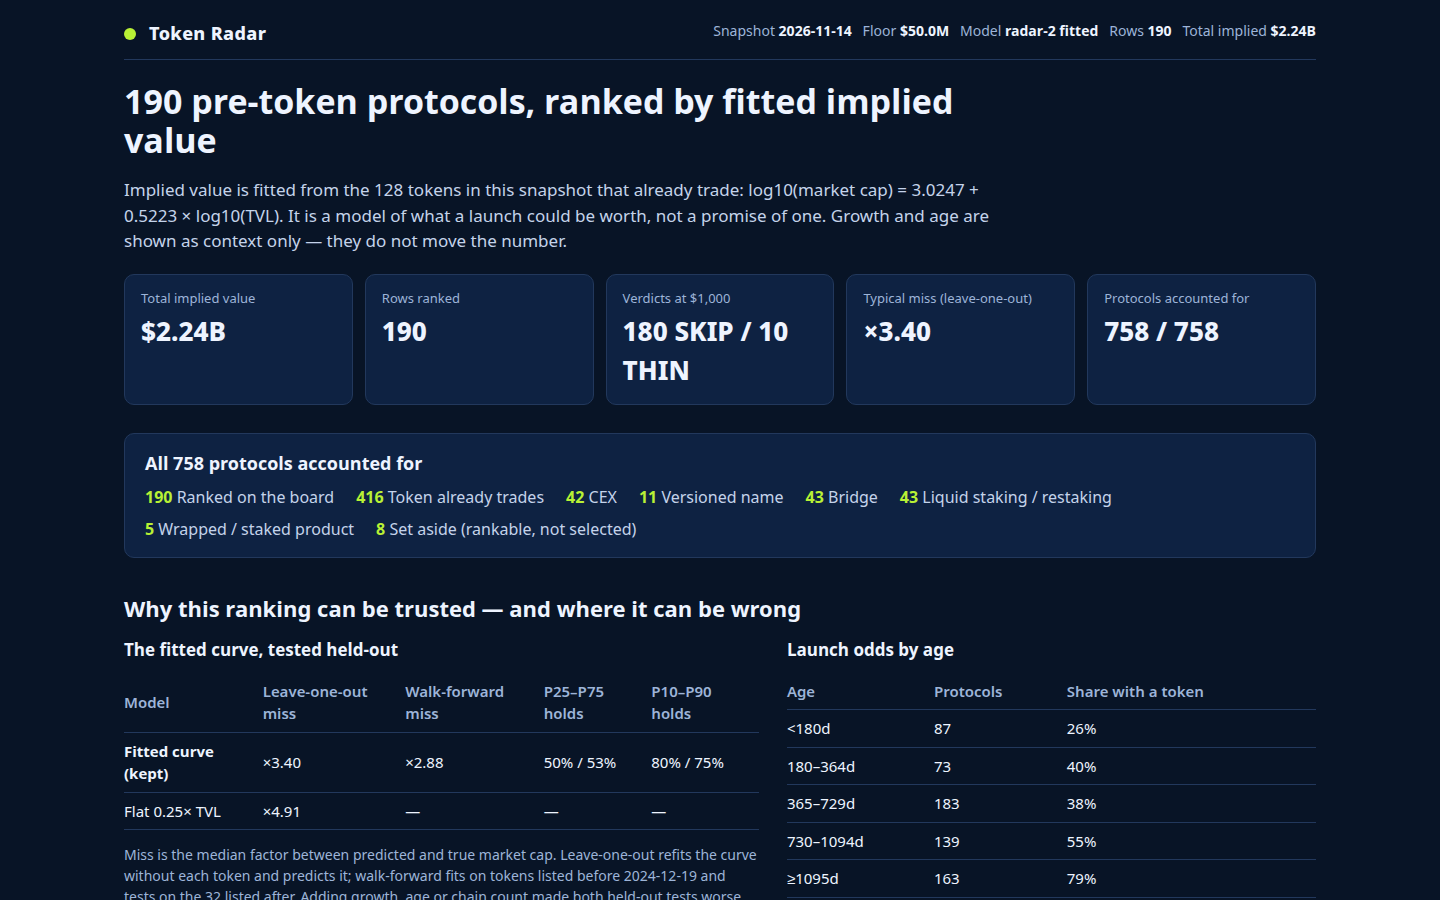
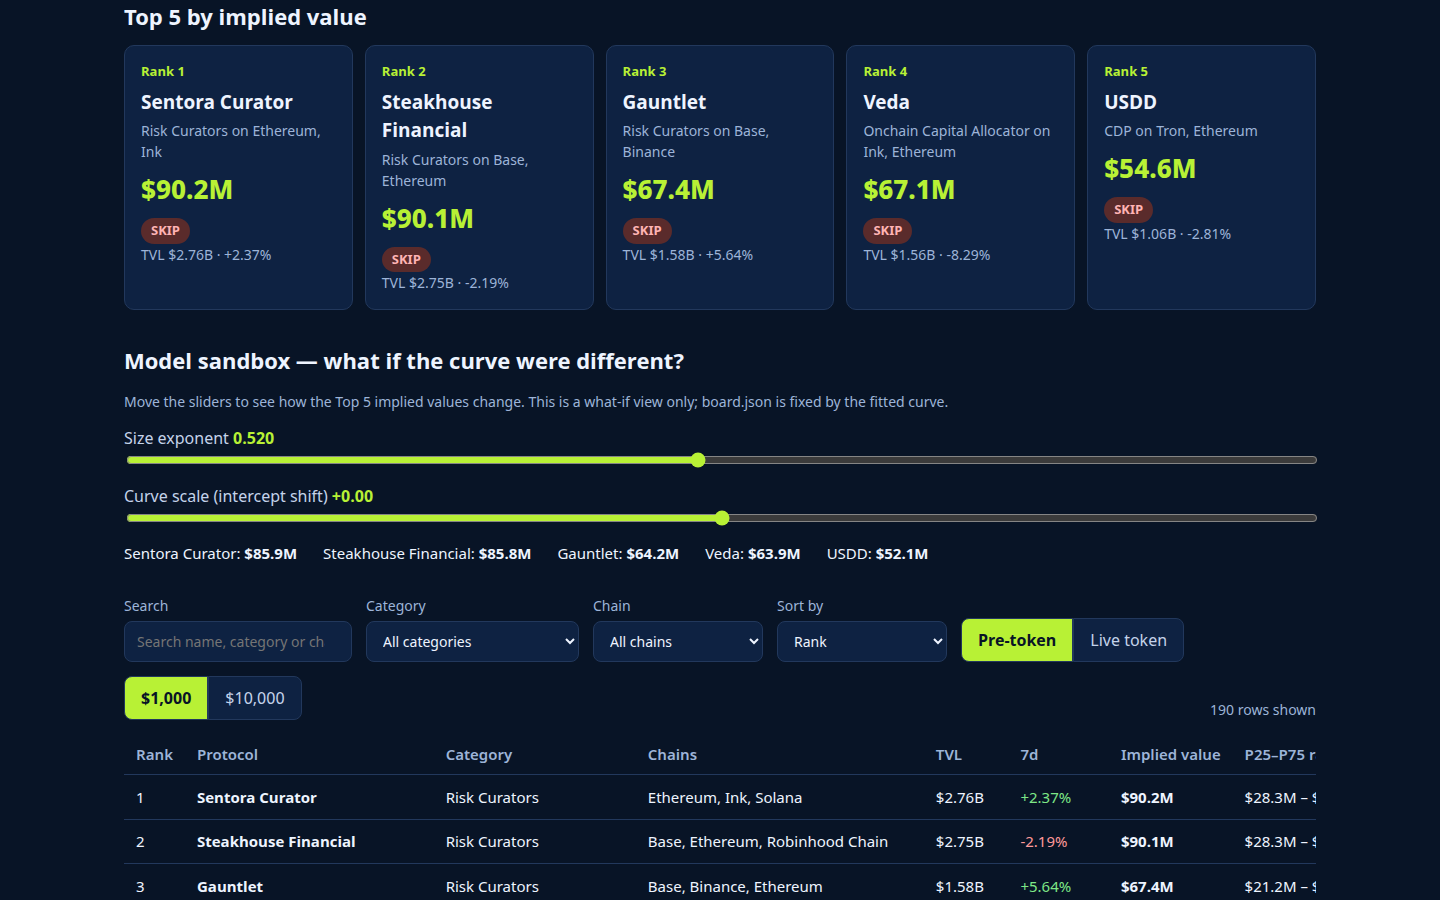
token-radar-01: maximize for top 5 - test model terms (none survive), add fit scatter and verdict toggle

diff --git a/dashboard/app.js b/dashboard/app.js
@@ -103,8 +103,10 @@
   document.getElementById('evidence-note').textContent =
     'Miss is the median factor between predicted and true market cap. Leave-one-out refits the curve ' +
     'without each token and predicts it; walk-forward fits on tokens listed before 2024-12-19 and tests ' +
-    'on the 32 listed after. Adding growth, age or chain count made both held-out tests worse, so the ' +
-    'curve is size alone.';
+    'on the 32 listed after. More terms were tried and none survived both tests: per-category intercepts ' +
+    '(Dexs, Lending) lowered walk-forward to ×2.75 but raised leave-one-out to ×3.68; a sibling indicator ' +
+    'lowered leave-one-out to ×3.30 but raised walk-forward to ×3.16; log age broke walk-forward outright ' +
+    '(×9.15) by extrapolating past its training range. So the curve stays size alone.';
   document.getElementById('odds-table').innerHTML =
     '<tr><th>Age</th><th>Protocols</th><th>Share with a token</th></tr>' +
     ev.odds.map(function (o) {
@@ -114,6 +116,60 @@
   document.getElementById('brier').textContent =
     ev.brier_odds.toFixed(2) + ' vs ' + ev.brier_overall.toFixed(2) + ' for the overall rate alone (' +
     Math.round(ev.overall_token_share * 100) + '% of protocols record a token)';
+
+  // Fit scatter: log10 TVL against log10 market cap for the traded tokens,
+  // with the fitted curve. Static SVG, no network, no library.
+  (function renderScatter() {
+    var pts = (R.fit_points || []).map(function (p) {
+      return { x: Math.log10(p.tvl_usd), y: Math.log10(p.mcap_usd), name: p.name, tvl: p.tvl_usd, mcap: p.mcap_usd };
+    });
+    if (pts.length === 0) return;
+    var W = 640, H = 400, L = 64, Rr = 16, T = 16, B = 52;
+    var xs = pts.map(function (p) { return p.x; });
+    var ys = pts.map(function (p) { return p.y; });
+    var x0 = Math.floor(Math.min.apply(null, xs) - 0.2);
+    var x1 = Math.ceil(Math.max.apply(null, xs) + 0.2);
+    var y0 = Math.floor(Math.min.apply(null, ys) - 0.2);
+    var y1 = Math.ceil(Math.max.apply(null, ys) + 0.2);
+    function X(v) { return L + ((v - x0) / (x1 - x0)) * (W - L - Rr); }
+    function Y(v) { return T + (1 - (v - y0) / (y1 - y0)) * (H - T - B); }
+    function tickLabel(v) {
+      var n = Math.pow(10, v);
+      if (n >= 1e9) return '$' + (n / 1e9) + 'B';
+      if (n >= 1e6) return '$' + (n / 1e6) + 'M';
+      return '$' + (n / 1e3) + 'K';
+    }
+    var s = '<svg viewBox="0 0 ' + W + ' ' + H + '" role="img" aria-label="Scatter of traded tokens: log TVL against log market cap, with the fitted curve">';
+    var t;
+    for (t = x0; t <= x1; t++) {
+      var anchor = t === x1 ? 'end' : (t === x0 ? 'start' : 'middle');
+      s += '<line x1="' + X(t) + '" y1="' + Y(y0) + '" x2="' + X(t) + '" y2="' + Y(y1) + '" class="grid"/>' +
+        '<text x="' + X(t) + '" y="' + (H - B + 20) + '" class="axis" text-anchor="' + anchor + '">' + tickLabel(t) + '</text>';
+    }
+    for (t = y0; t <= y1; t++) {
+      s += '<line x1="' + X(x0) + '" y1="' + Y(t) + '" x2="' + X(x1) + '" y2="' + Y(t) + '" class="grid"/>' +
+        '<text x="' + (L - 8) + '" y="' + (Y(t) + 4) + '" class="axis" text-anchor="end">' + tickLabel(t) + '</text>';
+    }
+    var curve = '';
+    for (var i = 0; i <= 40; i++) {
+      var xv = x0 + ((x1 - x0) * i) / 40;
+      var yv = ev.intercept + ev.exponent * xv;
+      curve += (i === 0 ? 'M' : 'L') + X(xv).toFixed(1) + ' ' + Y(yv).toFixed(1);
+    }
+    s += '<path d="' + curve + '" class="curve" fill="none"/>';
+    s += pts.map(function (p) {
+      return '<circle cx="' + X(p.x).toFixed(1) + '" cy="' + Y(p.y).toFixed(1) + '" r="3.5" class="dot-pt"><title>' +
+        esc(p.name) + ': TVL ' + money(p.tvl) + ', market cap ' + money(p.mcap) + '</title></circle>';
+    }).join('');
+    s += '<text x="' + ((W + L) / 2) + '" y="' + (H - 8) + '" class="axis-title" text-anchor="middle">TVL (log scale)</text>';
+    s += '<text x="16" y="' + ((H + T - B) / 2) + '" class="axis-title" text-anchor="middle" transform="rotate(-90 16 ' + ((H + T - B) / 2) + ')">Market cap (log scale)</text>';
+    s += '</svg>';
+    document.getElementById('scatter').innerHTML = s;
+    document.getElementById('scatter-note').textContent =
+      'Each dot is one of the ' + pts.length + ' traded tokens in this snapshot. The line is the fitted curve: ' +
+      'log10(market cap) = ' + ev.intercept.toFixed(4) + ' + ' + ev.exponent.toFixed(4) + ' × log10(TVL). ' +
+      'Dots above the line trade richer than their size alone predicts; dots below it trade cheaper.';
+  })();
 
   // Top 5 spotlight
   document.getElementById('top5').innerHTML = rows.slice(0, 5).map(function (r) {
@@ -151,6 +207,16 @@
   chains.forEach(function (c) { chainSel.insertAdjacentHTML('beforeend', '<option>' + esc(c) + '</option>'); });
 
   var mode = 'pre';
+  var depTable = 1000;
+  function setDepTable(dep) {
+    depTable = dep;
+    document.getElementById('dep-1k').classList.toggle('active', dep === 1000);
+    document.getElementById('dep-10k').classList.toggle('active', dep === 10000);
+    document.getElementById('verdict-th').textContent = 'Verdict ($' + dep.toLocaleString('en-US') + ')';
+    if (mode === 'pre') renderRows();
+  }
+  document.getElementById('dep-1k').addEventListener('click', function () { setDepTable(1000); });
+  document.getElementById('dep-10k').addEventListener('click', function () { setDepTable(10000); });
   var tbody = document.getElementById('rows');
   var liveTbody = document.getElementById('live-rows');
   function filtered() {
@@ -186,7 +252,7 @@
         '<td class="num"><b>' + money(r.implied_value_usd) + '</b></td>' +
         '<td class="num">' + money(r.implied_p25_usd) + ' – ' + money(r.implied_p75_usd) + '</td>' +
         '<td class="num">' + Math.round(r.launch_odds * 100) + '%</td>' +
-        '<td>' + badge(r.verdict_1k) + '</td></tr>';
+        '<td>' + badge(depTable === 1000 ? r.verdict_1k : r.verdict_10k) + '</td></tr>';
     }).join('');
     document.getElementById('count').textContent = list.length + ' rows shown';
   }
@@ -287,7 +353,9 @@
     ' × log10(TVL), fitted by least squares on the ' + ev.fit_n + ' protocols in this snapshot whose token already trades ' +
     '(market cap &gt; 0, TVL &gt; 0). The fitted curve was tested held-out two ways — leave-one-out miss ×' + ev.loo_miss.toFixed(2) +
     ' and walk-forward miss ×' + ev.walk_forward_miss.toFixed(2) + ' — against a flat 0.25× TVL multiple at ×' + ev.flat_miss.toFixed(2) + '. ' +
-    'Extra terms (7-day growth, age, chain count) were tested and rejected: each made both held-out tests worse.</p>' +
+    'Extra terms were tested and rejected: 7-day growth, age and chain count each made both held-out tests ' +
+    'worse, and so did per-category intercepts, a sibling indicator and log age — none of them lowered both ' +
+    'the leave-one-out and the walk-forward miss, so the curve is size alone.</p>' +
     '<p>Launch odds are counted from the snapshot: the share of protocols in each age bucket that record a token. ' +
     'A protocol “records no token” when DefiLlama lists no market cap, no CoinGecko id and no symbol for it — ' +
     'that is not a guarantee it has no token, and it is not a guarantee it will ever issue one. Implied value is ' +

diff --git a/dashboard/index.html b/dashboard/index.html
@@ -37,6 +37,11 @@
         (market cap, CoinGecko id or symbol set). Brier score <span id="brier"></span>.</p>
       </div>
     </div>
+    <figure class="scatter">
+      <h3>The fit, plotted</h3>
+      <div id="scatter"></div>
+      <figcaption class="note" id="scatter-note"></figcaption>
+    </figure>
   </section>
 
   <section class="spotlight" aria-label="Top 5">
@@ -80,6 +85,10 @@
       <button type="button" id="show-pre" class="active">Pre-token</button>
       <button type="button" id="show-live">Live token</button>
     </div>
+    <div class="toggle" role="group" aria-label="Deposit size for verdicts">
+      <button type="button" id="dep-1k" class="active">$1,000</button>
+      <button type="button" id="dep-10k">$10,000</button>
+    </div>
     <span class="count" id="count"></span>
   </section>
 
@@ -88,7 +97,7 @@
       <thead><tr>
         <th>Rank</th><th>Protocol</th><th>Category</th><th>Chains</th>
         <th>TVL</th><th>7d</th><th>Implied value</th><th>P25–P75 range</th>
-        <th>Launch odds</th><th>Verdict ($1k)</th>
+        <th>Launch odds</th><th id="verdict-th">Verdict ($1,000)</th>
       </tr></thead>
       <tbody id="rows"></tbody>
     </table>

diff --git a/lib/model.ts b/lib/model.ts
@@ -129,6 +129,14 @@ export interface OddsBucket {
   share: number;
 }
 
+/** One traded token plotted on the fit scatter: its size and its market value. */
+export interface FitPoint {
+  slug: string;
+  name: string;
+  tvl_usd: number;
+  mcap_usd: number;
+}
+
 /** The held-out evidence, recomputed from the snapshot on every run. */
 export interface Evidence {
   fit_n: number;
@@ -174,6 +182,7 @@ export interface RadarData {
   total_implied_usd: number;
   rows: RadarRow[];
   live: LiveRow[];
+  fit_points: FitPoint[];
   evidence: Evidence;
   ledger: Ledger;
   verdicts_1k: Record<string, number>;
@@ -699,6 +708,10 @@ export function buildRadar(snapshot: Snapshot): { board: BoardRow[]; radar: Rada
     total_implied_usd: board.reduce((a, r) => a + r.implied_value_usd, 0),
     rows: board.map(radarRow),
     live,
+    fit_points: snapshot.protocols
+      .filter((p) => (p.mcap_usd ?? 0) > 0 && p.tvl_usd > 0)
+      .sort((a, b) => a.tvl_usd - b.tvl_usd)
+      .map((p) => ({ slug: p.slug, name: p.name, tvl_usd: p.tvl_usd, mcap_usd: p.mcap_usd! })),
     evidence,
     ledger: buildLedger(snapshot, board.length, rankableCount),
     verdicts_1k,

diff --git a/dashboard/app.css b/dashboard/app.css
@@ -33,6 +33,15 @@ table.plain { border-collapse: collapse; width: 100%; font-size: 15px; }
 table.plain th, table.plain td { text-align: left; padding: 7px 10px 7px 0;
   border-bottom: 1px solid #22385c; }
 table.plain th { color: #9db4d8; font-weight: 600; }
+.scatter { margin: 28px 0 0; }
+.scatter h3 { margin-bottom: 8px; }
+.scatter svg { width: 100%; max-width: 760px; height: auto; display: block;
+  background: #0e2242; border: 1px solid #22385c; border-radius: 10px; }
+.scatter .grid { stroke: #22385c; stroke-width: 1; }
+.scatter .axis { fill: #9db4d8; font-size: 11px; }
+.scatter .axis-title { fill: #c4d3ea; font-size: 12px; }
+.scatter .curve { stroke: #b8f135; stroke-width: 2.5; }
+.scatter .dot-pt { fill: #7fb8e8; }
 .note { color: #9db4d8; font-size: 14px; }
 .cards { display: grid; grid-template-columns: repeat(5, 1fr); gap: 12px; }
 .card { background: #0e2242; border: 1px solid #22385c; border-radius: 10px; padding: 16px; }

diff --git a/BUILD_REPORT.md b/BUILD_REPORT.md
@@ -32,6 +32,47 @@ Growth and age are shown per row as context only; they do not move the number.
 Adding 7-day growth, age, or chain count each made both held-out tests worse in
 the earlier analysis, so the curve is size alone.
 
+### Term tests, 2026-11-20 (maximization round — no term survived)
+
+Candidates were tested with the same discipline: a term is kept only if it lowers
+**both** the leave-one-out miss and the walk-forward miss (fit before 2024-12-19,
+test after; 63 train / 32 test). All terms use the snapshot's own fields only.
+
+| Term | Leave-one-out | Walk-forward | Verdict |
+|---|---|---|---|
+| **Size only (kept)** | **×3.40** | **×2.88** | **kept** |
+| + per-category intercepts (Dexs 11, Lending 15 traded; smaller categories fall back to the global intercept) | ×3.68 | ×2.75 | rejected — LOO worse |
+| + sibling indicator (shares a first-word name stem with another protocol that records a token; 8 of 128 traded, 19 of 342 pre-token) | ×3.30 | ×3.16 | rejected — WF worse |
+| + log age (log10 days since listed_at; missing listed_at imputed with the training median; 33 of 128 traded have no listed_at) | ×3.42 | ×9.15 | rejected — WF collapses |
+| + category + sibling | ×3.57 | ×2.72 | rejected — LOO worse |
+| + category + log age | ×3.63 | ×10.70 | rejected |
+| + sibling + log age | ×3.29 | ×9.96 | rejected |
+| + all three | ×3.53 | ×9.91 | rejected |
+
+Why log age breaks walk-forward: its slope fit on the pre-cutoff tokens is +1.53
+(vs −0.15 on the full set), and the post-cutoff test tokens' log-age range
+(1.90–2.84) lies entirely below the training range (2.87–3.27), so the term
+extrapolates catastrophically. The sibling indicator is too sparse to estimate
+(2 positives in walk-forward train, 1 in test). The model stays the size-only
+curve; the board, top 5 and total implied value are unchanged.
+
+### Dashboard additions, 2026-11-20
+
+- **Fit scatter** (evidence section): a static SVG of the 128 traded tokens,
+  log10 TVL vs log10 market cap, with the fitted curve line and the equation in
+  the caption. No network, no library. The 128 points ride in `data.js`
+  (`fit_points`, added to `RadarData` in `lib/model.ts`); `main.ts` itself is
+  untouched. One fix during visual checking: the last x-axis tick label was
+  clipped at the SVG edge, so end ticks are now end-anchored.
+- **Verdict toggle** (above the board table): $1,000 / $10,000 buttons that
+  switch the Verdict column and its header label between the per-row
+  `verdict_1k` and `verdict_10k` already computed. Default stays $1,000.
+  Verified live: Polymarket International flips SKIP → MARGINAL, header becomes
+  "Verdict ($10,000)", 190 rows still shown. The detail drawer keeps its own
+  $1k/$10k toggle, unchanged.
+- Evidence note and methodology footer now name the new term tests and their
+  numbers. Base type and layout unchanged; nothing was densified.
+
 ### Held-out evidence (128 traded tokens, recomputed in the model)
 
 | Model | Leave-one-out miss | Walk-forward miss | P25–P75 holds | P10–P90 holds |
@@ -107,18 +148,28 @@ exit 0
 
 - `board.json`: 190 rows, ranks 1..190, sorted by implied value descending, 40/40
   watchlist, 6 farm steps per row, every step 20–600 chars. `boardIssue` returns null (exit 0).
-- Screenshots (rendered from the actual `out/dashboard` with Playwright headless Chromium,
-  stock Chromium from the Playwright cache — the VM's bundled Chromium refuses to start
-  without a Hatch WebGL domain-policy file; the dashboard itself uses no WebGL):
-  `1-board.png` 1440×900, 160 KiB; `2-detail.png` 1440×900, 245 KiB (Sentora Curator
-  drawer, SKIP at $1k, break-even $23,981); `3-filtered.png` 1440×900, 188 KiB
+  Total implied value **$2,243,851,082** (unchanged — the model did not change).
+  Verdicts at $1,000: 180 SKIP / 10 THIN / 0 MARGINAL / 0 FARM; at $10,000:
+  8 SKIP / 29 THIN / 51 MARGINAL / 102 FARM.
+- Screenshots (re-rendered 2026-11-20 from the actual `out/dashboard` with Playwright
+  headless Chromium, stock Chromium from the Playwright cache — the VM's bundled
+  Chromium refuses to start without a Hatch WebGL domain-policy file; the dashboard
+  itself uses no WebGL):
+  `1-board.png` 1440×900, 146 KiB (Top 5 spotlight, sandbox, filters, the new
+  $1,000/$10,000 toggle, table head); `2-detail.png` 1440×900, 245 KiB (Sentora
+  Curator drawer, SKIP at $1k, break-even $23,981); `3-filtered.png` 1440×900, 188 KiB
   (Dexs filter, 20 rows shown) — all PNG, all under the 512 KiB cap, long side 1440,
   short side 900. Visually checked: all three readable, Top 5 visible, drawer and
-  filter working.
-- `dossier.json`: schema `makefun/dossier/v1`, 3 images, 27,451 bytes of text
-  (cap 65,536). Dashboard: 3 files, 27,185 bytes total (cap 400 files / 4 MiB).
-- `data.js` carries the full evidence, odds table, ledger, verdict counts and the
-  6-step farm plan per row, so the dashboard and board.json agree.
+  filter working, toggle visible. The scatter was checked in a separate render:
+  128 dots, fitted curve line, axes labelled $1M–$100B (TVL) and $10K–$10B
+  (market cap), equation in the caption. Toggle interaction verified live in the
+  browser (SKIP → MARGINAL on Polymarket International).
+- `dossier.json`: schema `makefun/dossier/v1`, 3 images, 32,673 bytes of text
+  (cap 65,536). Dashboard: 3 files, 32,306 bytes total (cap 400 files / 4 MiB).
+  `data.js` 271,528 bytes (now carries the 128 fit points).
+- `vendor/makefun-board.ts` sha256 still
[1 lines of base64/hex data omitted]
+- `main.ts` untouched (authored header comment intact).
 
 ## What remains before a real submit (NOT done)
 
